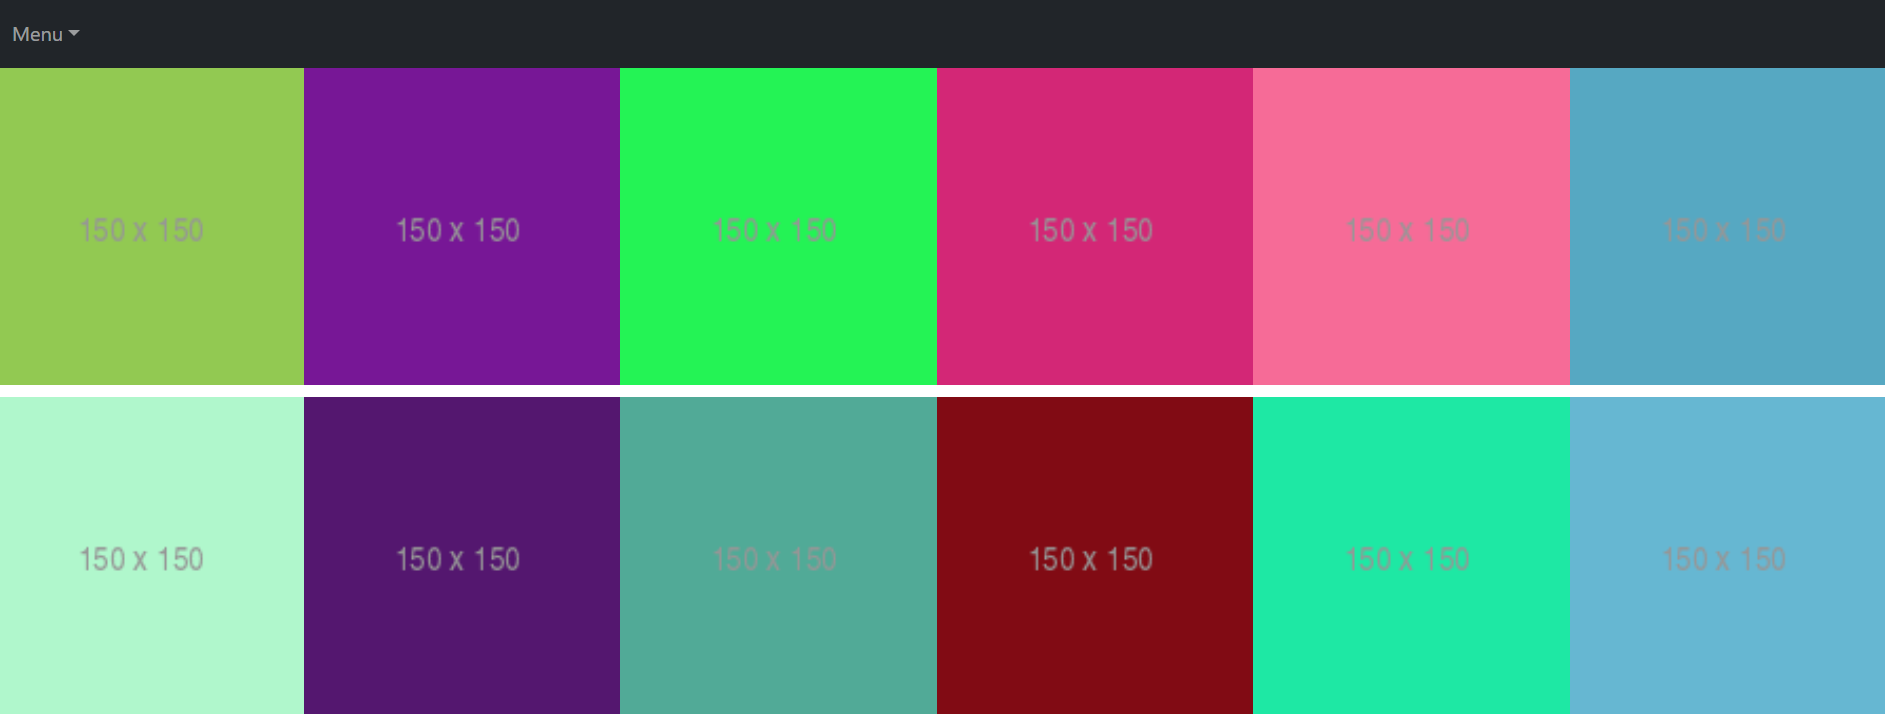
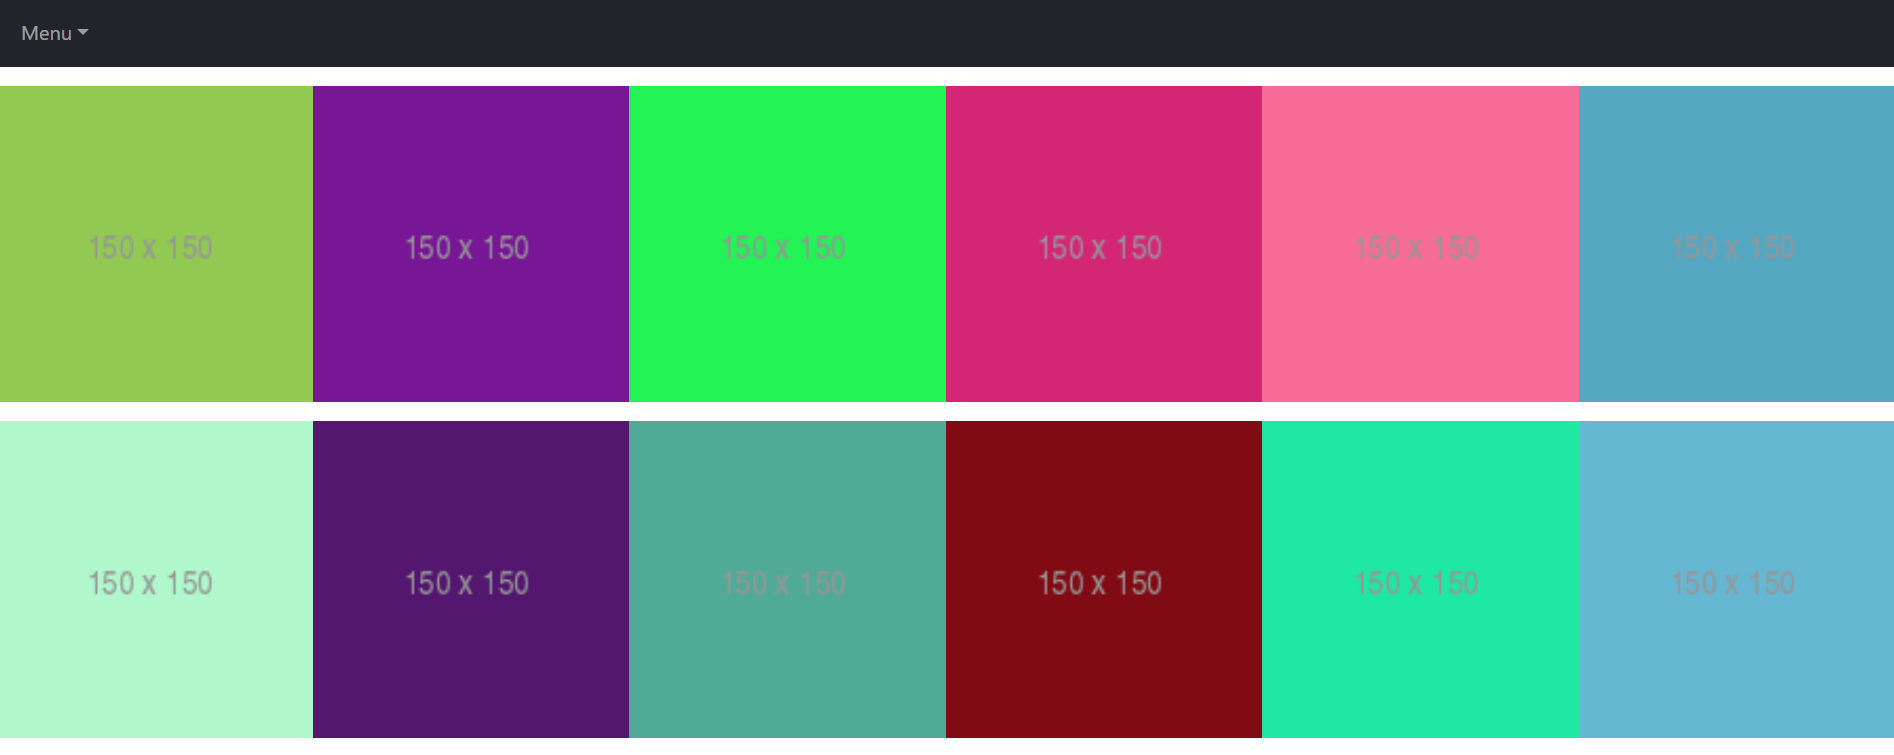
Refactoring

diff --git a/src/components/Gallery/Gallery.scss b/src/components/Gallery/Gallery.scss
@@ -3,14 +3,13 @@ display: grid;
 width: 100%;
 grid-template-columns: 1fr 1fr 1fr 1fr 1fr 1fr;
 row-gap: 15px;
+margin-top: 15px;
 box-sizing: border-box;
 .Gallery__picture{
   position: relative;
   width: 100%;
-  display: flex;
     img{
       width: 100%;
-      height: auto;
     }
 }
 Button{
